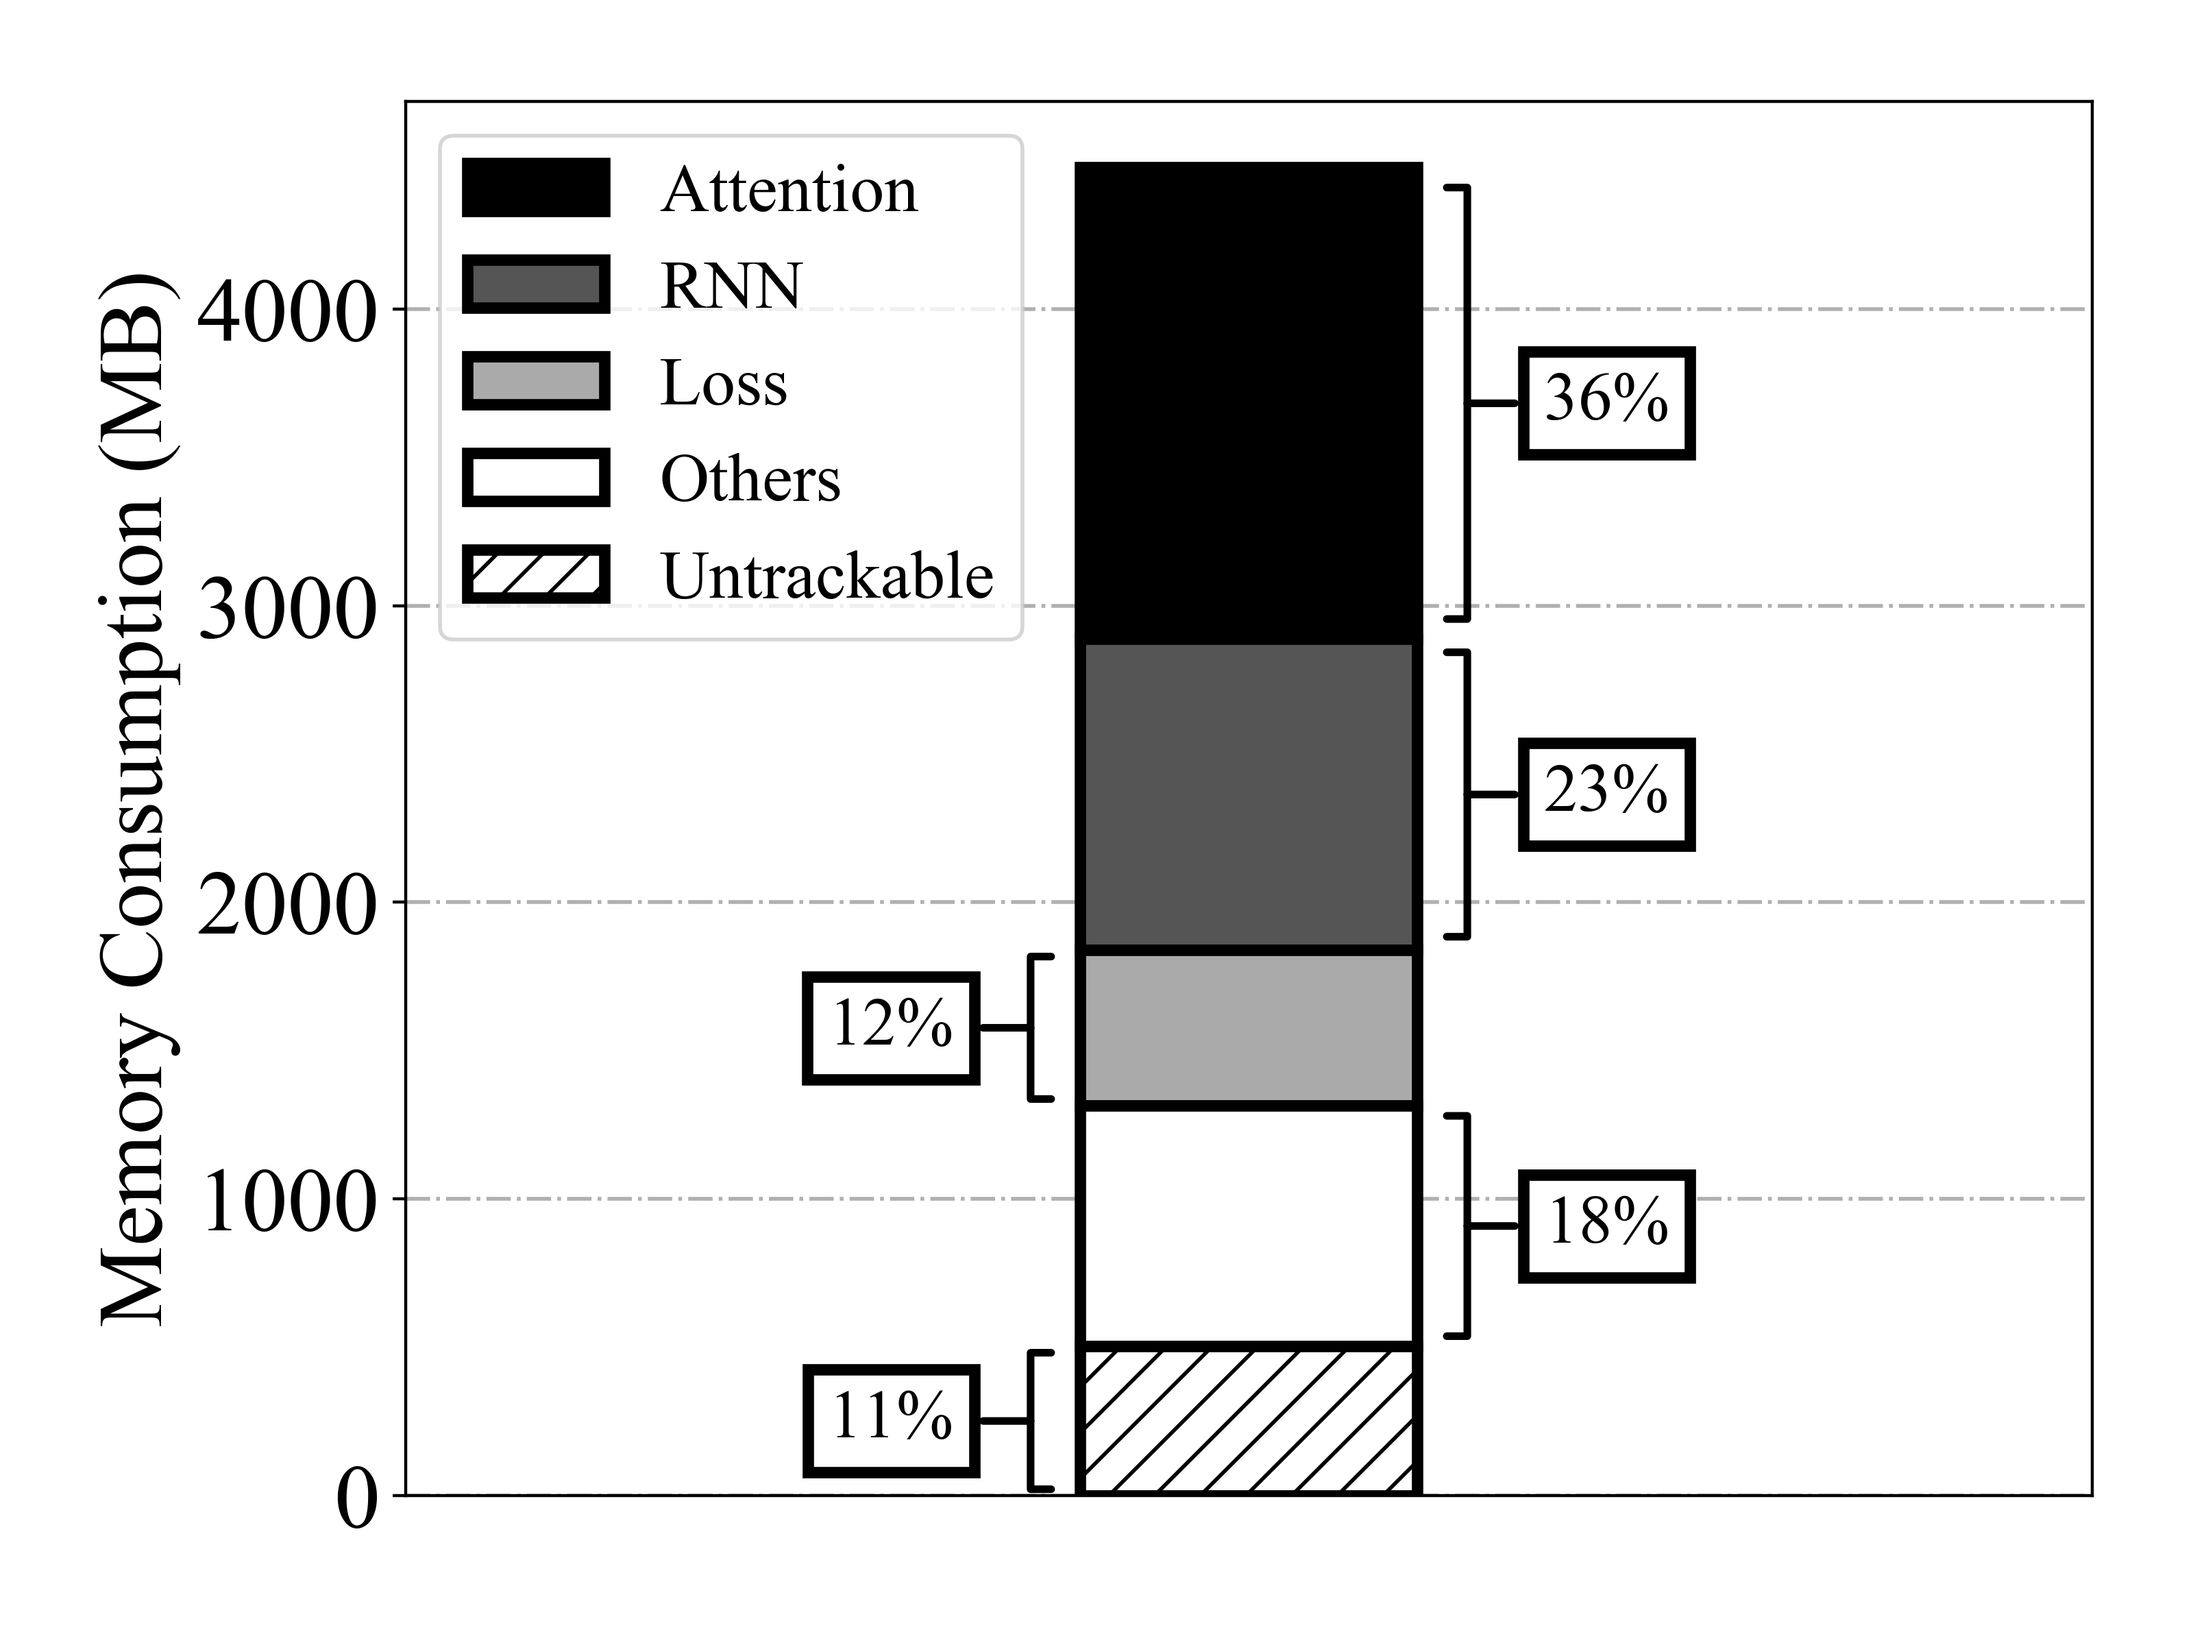
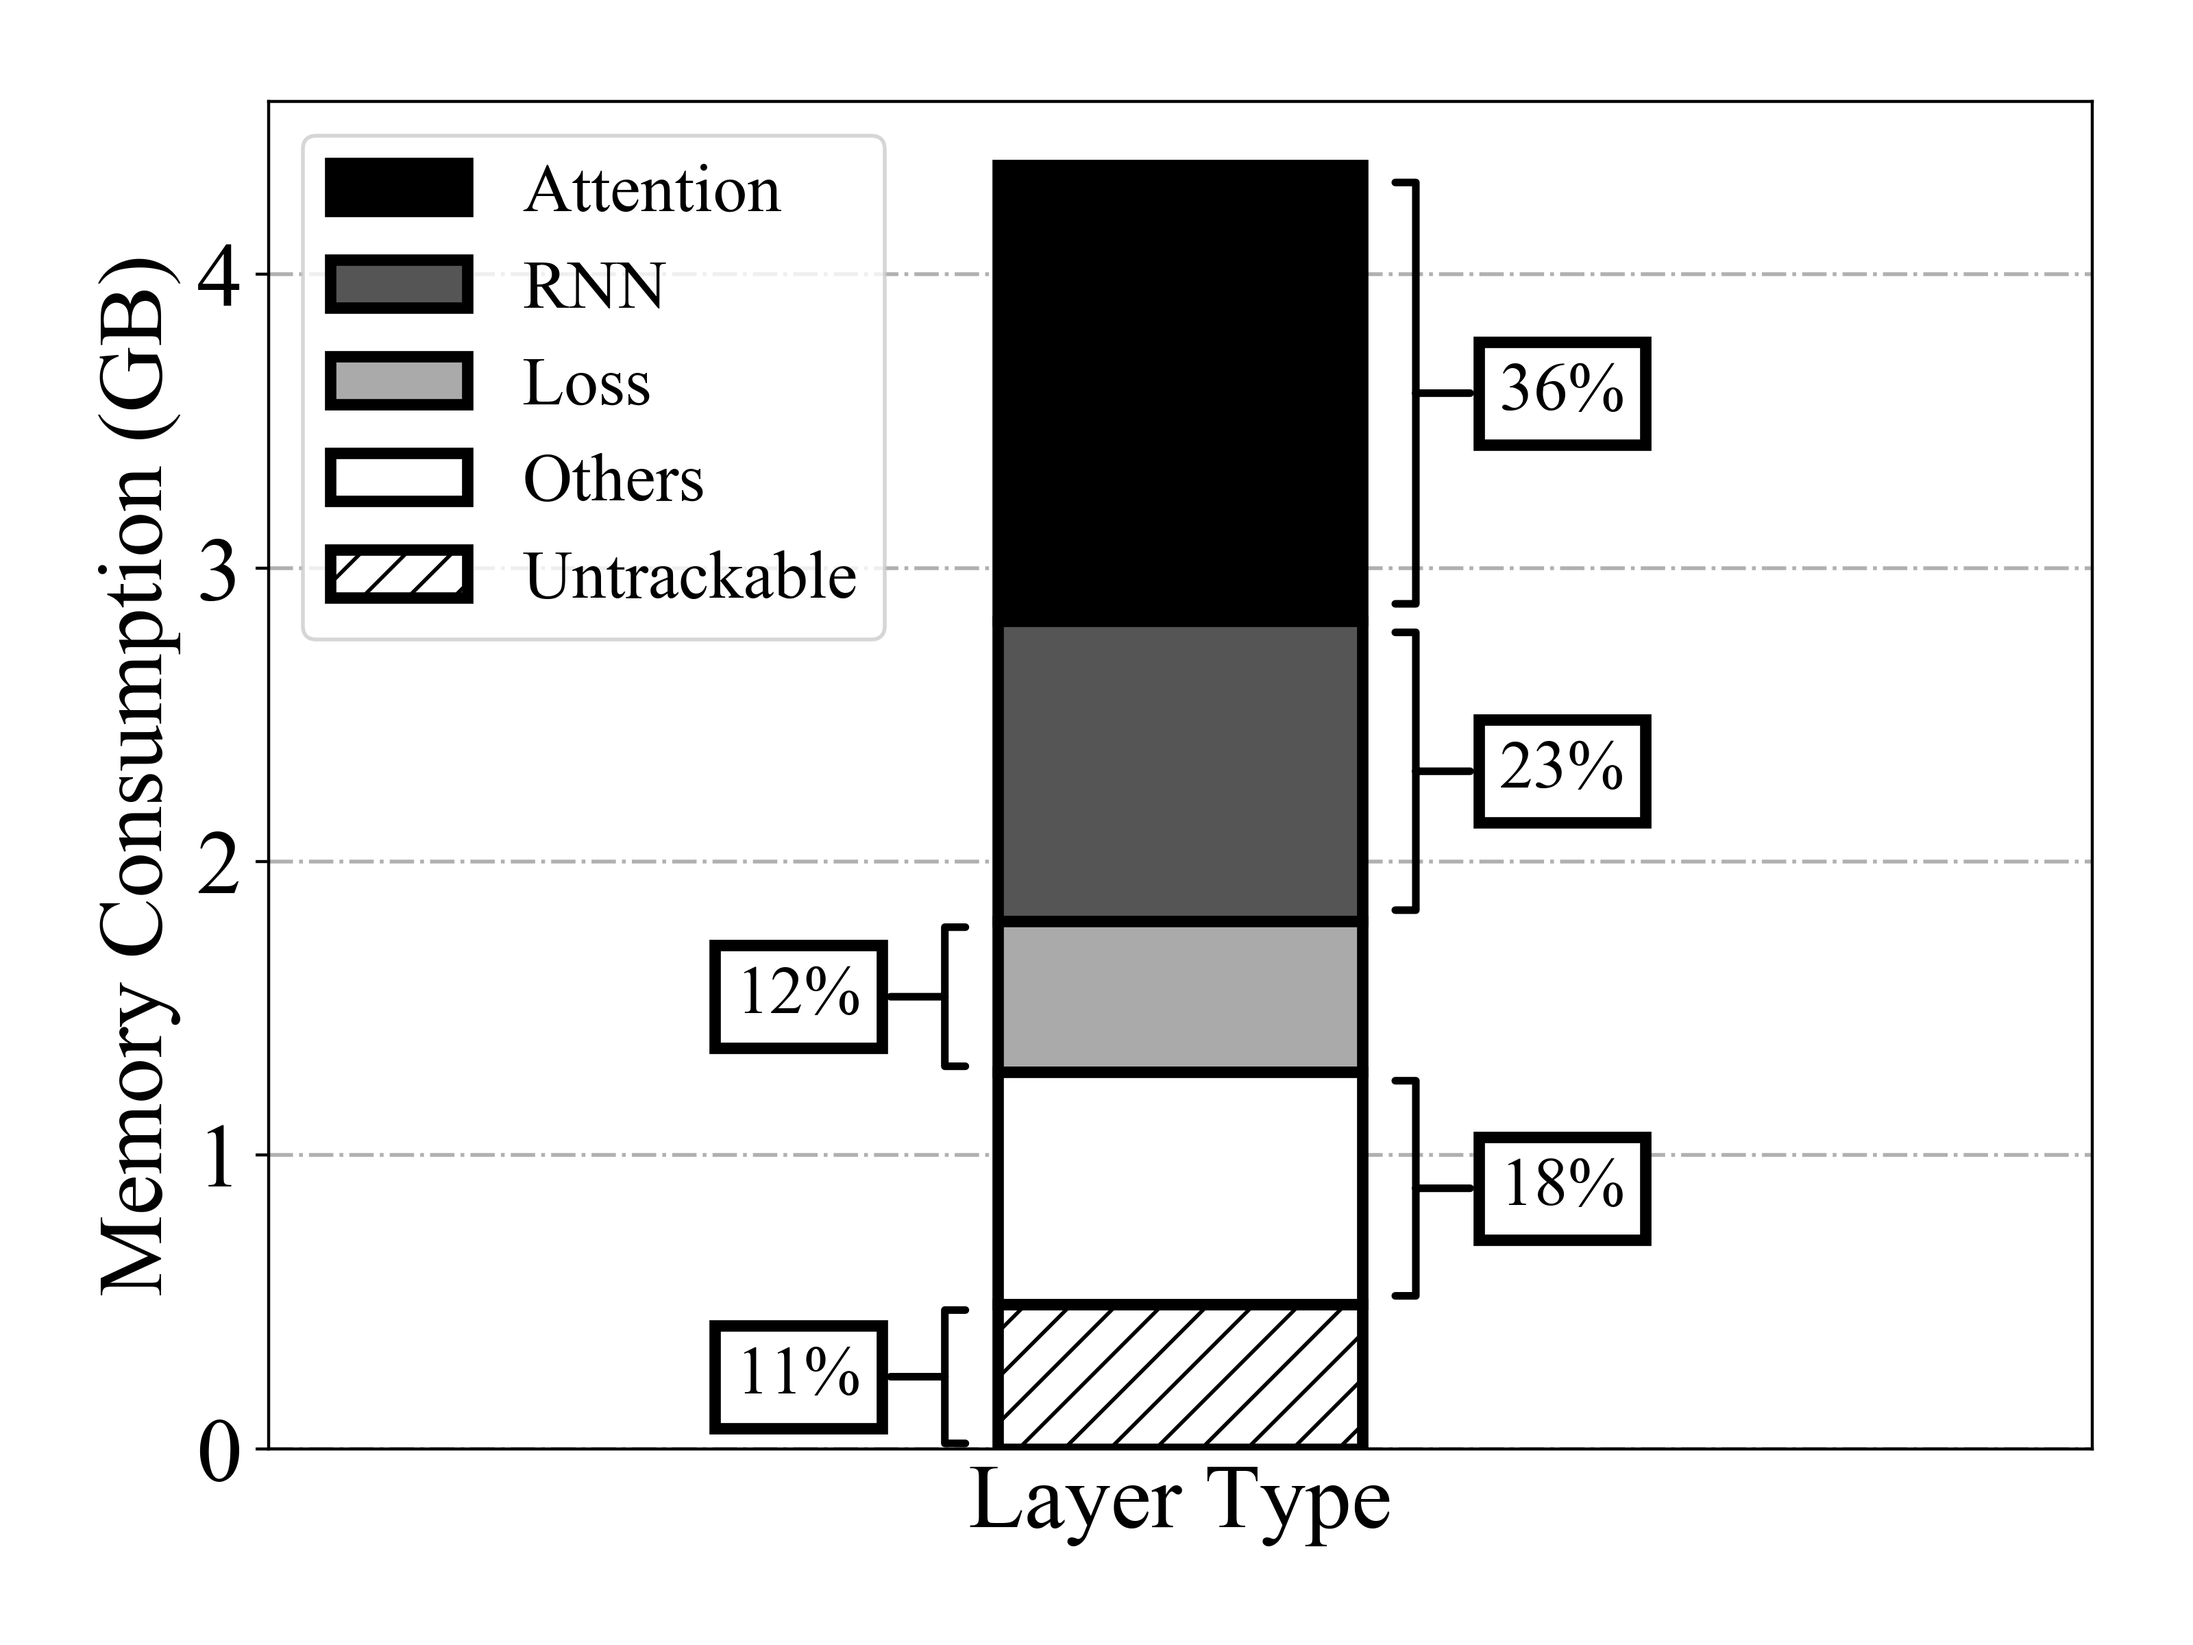
Added xlabel.

Changed region(s): [[0.0312, 0.0625, 0.9375, 0.9375], [0.1562, 0.875, 0.1875, 0.9375], [0.0938, 0.8438, 0.125, 0.9062]]

diff --git a/workspace/results/plotter.py b/workspace/results/plotter.py
@@ -54,11 +54,12 @@ def plt_rc_setup(dpi=400, fontsize=24):
 
 def plt_memory_breakdown(sorted_stats_list,
                          expected_sum,
+                         xlabel,
                          fig_name,
                          bar_width=0.3,
                          annotation_top_k=None,
                          annotation_fontsize=18,
-                         annotation_length_ratio=0.00011):
+                         annotation_length_ratio=0.11):
     """
     Plot the breakdown of memory consumption.
     
@@ -74,12 +75,12 @@ def plt_memory_breakdown(sorted_stats_list,
     """
     plt.figure(figsize=(8, 6))
 
-    sorted_stats_klist = [kv[0]                    for kv in sorted_stats_list[:]]
-    sorted_stats_vlist = [kv[1][0] / (1024 * 1024) for kv in sorted_stats_list[:]]
+    sorted_stats_klist = [kv[0]                           for kv in sorted_stats_list[:]]
+    sorted_stats_vlist = [kv[1][0] / (1024 * 1024 * 1024) for kv in sorted_stats_list[:]]
     
     if expected_sum is not None:
         sorted_stats_klist.append('Untrackable')
-        sorted_stats_vlist.append(expected_sum - np.sum([kv[1][0] / (1024 * 1024) for kv in sorted_stats_list[:]]))
+        sorted_stats_vlist.append(expected_sum - np.sum([kv[1][0] / (1024 * 1024 * 1024) for kv in sorted_stats_list[:]]))
 
     assert len(sorted_stats_klist) == len(sorted_stats_vlist)
 
@@ -132,7 +133,8 @@ def plt_memory_breakdown(sorted_stats_list,
     # x- & y- axis
     plt.xlim([-2*bar_width, 2*bar_width])
     plt.xticks([])
-    plt.ylabel("Memory Consumption (MB)")
+    plt.xlabel(xlabel)
+    plt.ylabel("Memory Consumption (GB)")
 
     # Grid & Legend
     plt.grid(linestyle='-.', linewidth=1, axis='y')
@@ -154,10 +156,12 @@ if __name__ == "__main__":
     sorted_stats_list = parse_memory_profile(memory_profile=args.memory_profile, 
                                              regex_dict=SOCKEYE_LAYER_REGEX_DICT)
     plt_memory_breakdown(sorted_stats_list=sorted_stats_list, 
-                         expected_sum=4477, 
+                         expected_sum=4477.0 / 1024, 
+                         xlabel="Layer Type",
                          fig_name='sockeye-memory_profile-groundhog_iwslt15-layer.png')
     sorted_stats_list = parse_memory_profile(memory_profile=args.memory_profile, 
                                              regex_dict=SOCKEYE_FUNCTION_REGEX_DICT)
     plt_memory_breakdown(sorted_stats_list=sorted_stats_list, 
-                         expected_sum=4477, 
+                         expected_sum=4477.0 / 1024, 
+                         xlabel="Data Structure",
                          fig_name='sockeye-memory_profile-groundhog_iwslt15-function.png')

diff --git a/workspace/results/memory_profile_analysis.py b/workspace/results/memory_profile_analysis.py
@@ -130,6 +130,6 @@ def parse_memory_profile(memory_profile, regex_dict):
 
     for stats in sorted_stats_list:
         print("Keyword: %-30s, Memory Consumption: %7.2f MB, Entries: %5d" % \
-            (stats[0], stats[1][0] * 1.0 / (1024 * 1024), len(stats[1][1])))
+            (stats[0], stats[1][0] * 1.0 / (1024 * 1024 * 1024), len(stats[1][1])))
 
     return sorted_stats_list
